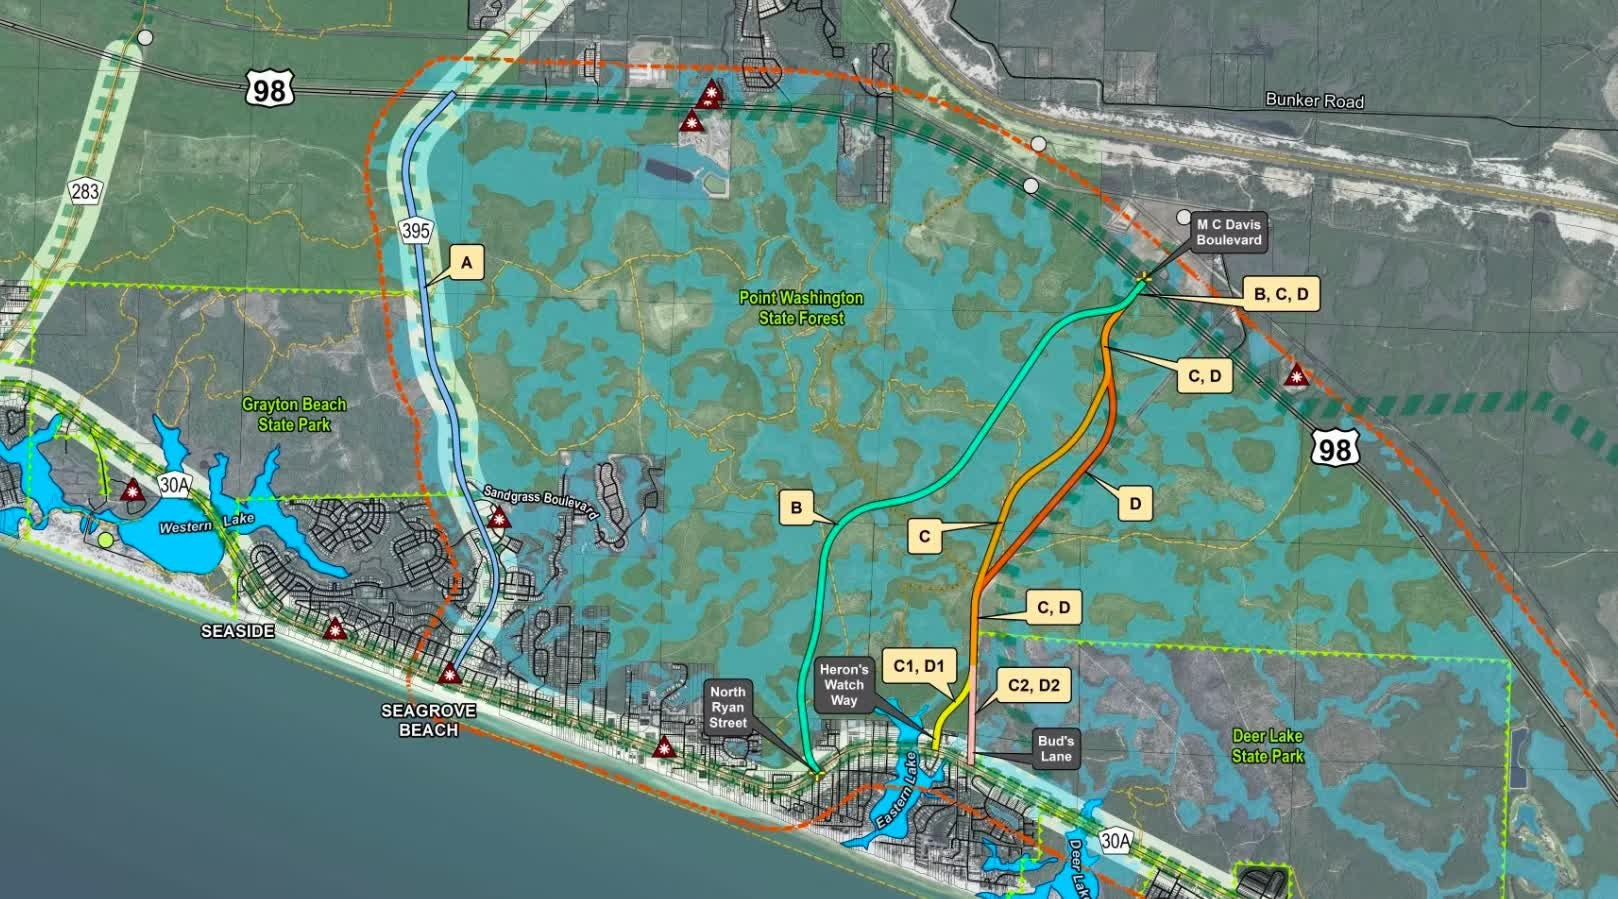
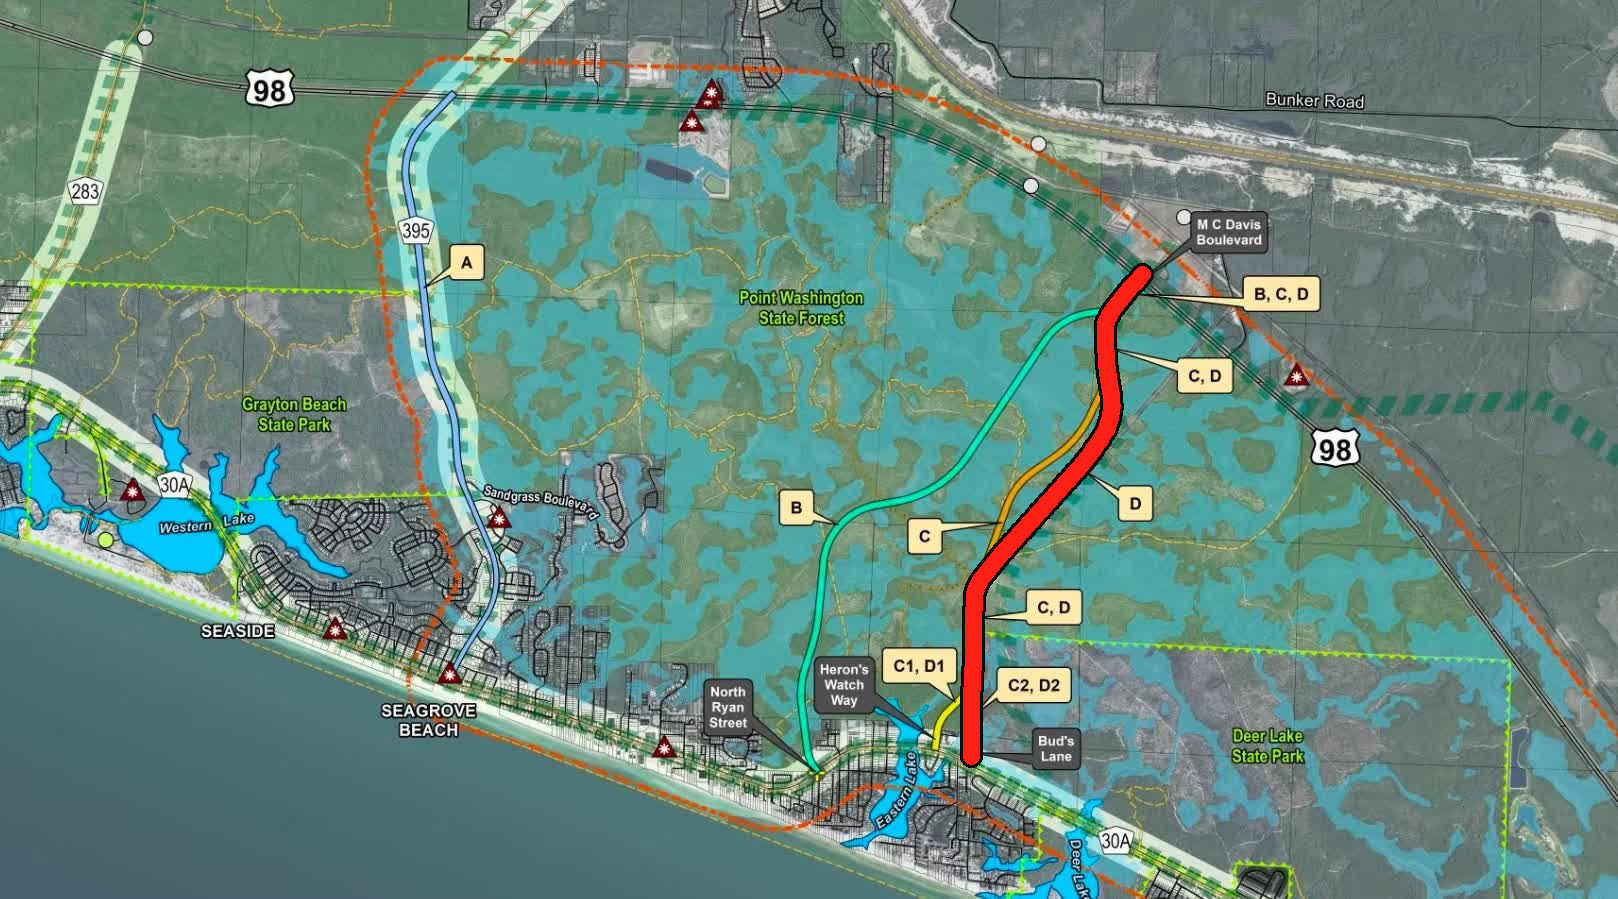
Highlight D2 on the hero map and shrink the side video (#18)
Draw a continuous red line along the proposed D2 route from Bud's Lane to US 98, and make the wide-screen hero video a smaller rounded portrait so the map and headline have more room.

Changed region(s): [[0.5871, 0.2803, 0.7108, 0.8721]]

diff --git a/styles.css b/styles.css
@@ -236,17 +236,23 @@ p { text-wrap: pretty; }
   padding: 4.5rem 0 5rem;
   overflow: hidden;
 }
-.hero-bg {
+.hero-bg,
+.hero-d2 {
   position: absolute;
   inset: 0;
   width: 100%;
   height: 100%;
   max-width: none;
-  object-fit: cover;
-  object-position: center 46%;
-  opacity: 0.31;
   z-index: -1;
   pointer-events: none;
+}
+.hero-bg {
+  object-fit: cover;
+  object-position: 66% 50%;
+  opacity: 0.31;
+}
+.hero-d2 {
+  background: url("images/hero-d2.svg") 66% 50% / cover no-repeat;
 }
 .hero-copy { max-width: 46rem; }
 .hero-side {
@@ -266,7 +272,8 @@ p { text-wrap: pretty; }
 @media (min-width: 1040px) {
   .hero {
     display: grid;
-    grid-template-columns: minmax(0, 1fr) min(calc((100dvh - 4.6rem) * 9 / 16), 42vw);
+    grid-template-columns: minmax(0, 1fr) auto;
+    align-items: center;
     min-height: calc(100svh - 4.6rem);
     min-height: calc(100dvh - 4.6rem);
   }
@@ -282,18 +289,20 @@ p { text-wrap: pretty; }
   }
   .hero-side {
     position: relative;
-    padding: 0;
-    min-height: 34rem;
+    padding: 1.25rem 1.35rem 1.25rem 0.35rem;
+    min-height: 0;
     background: transparent;
+    align-self: center;
   }
   .hero-side-video {
-    position: absolute;
-    inset: 0;
-    width: 100%;
-    height: 100%;
+    position: relative;
+    inset: auto;
+    display: block;
+    width: min(19rem, 28vw, calc(70dvh * 9 / 16));
+    height: auto;
     max-width: none;
-    aspect-ratio: auto;
-    border-radius: 0;
+    aspect-ratio: 9 / 16;
+    border-radius: 12px;
     object-fit: cover;
     object-position: center;
   }

diff --git a/index.html b/index.html
@@ -95,7 +95,8 @@
 <main id="content">
   <section class="hero">
     <div class="hero-visual">
-      <img class="hero-bg" src="images/hero-map.jpg" alt="Aerial map of proposed South Walton Connector alternatives between Scenic Highway 30A and US 98" width="1618" height="899">
+      <img class="hero-bg" src="images/hero-map.jpg" alt="Aerial map of proposed South Walton Connector alternatives between Scenic Highway 30A and US 98, with the proposed D2 route highlighted in red" width="1618" height="899">
+      <div class="hero-d2" aria-hidden="true"></div>
       <div class="wrap hero-copy">
         <h1>The Road Near The Powerlines</h1>
         <p class="lede">Understanding the proposed South Walton connection between Scenic Highway 30A and US 98</p>
